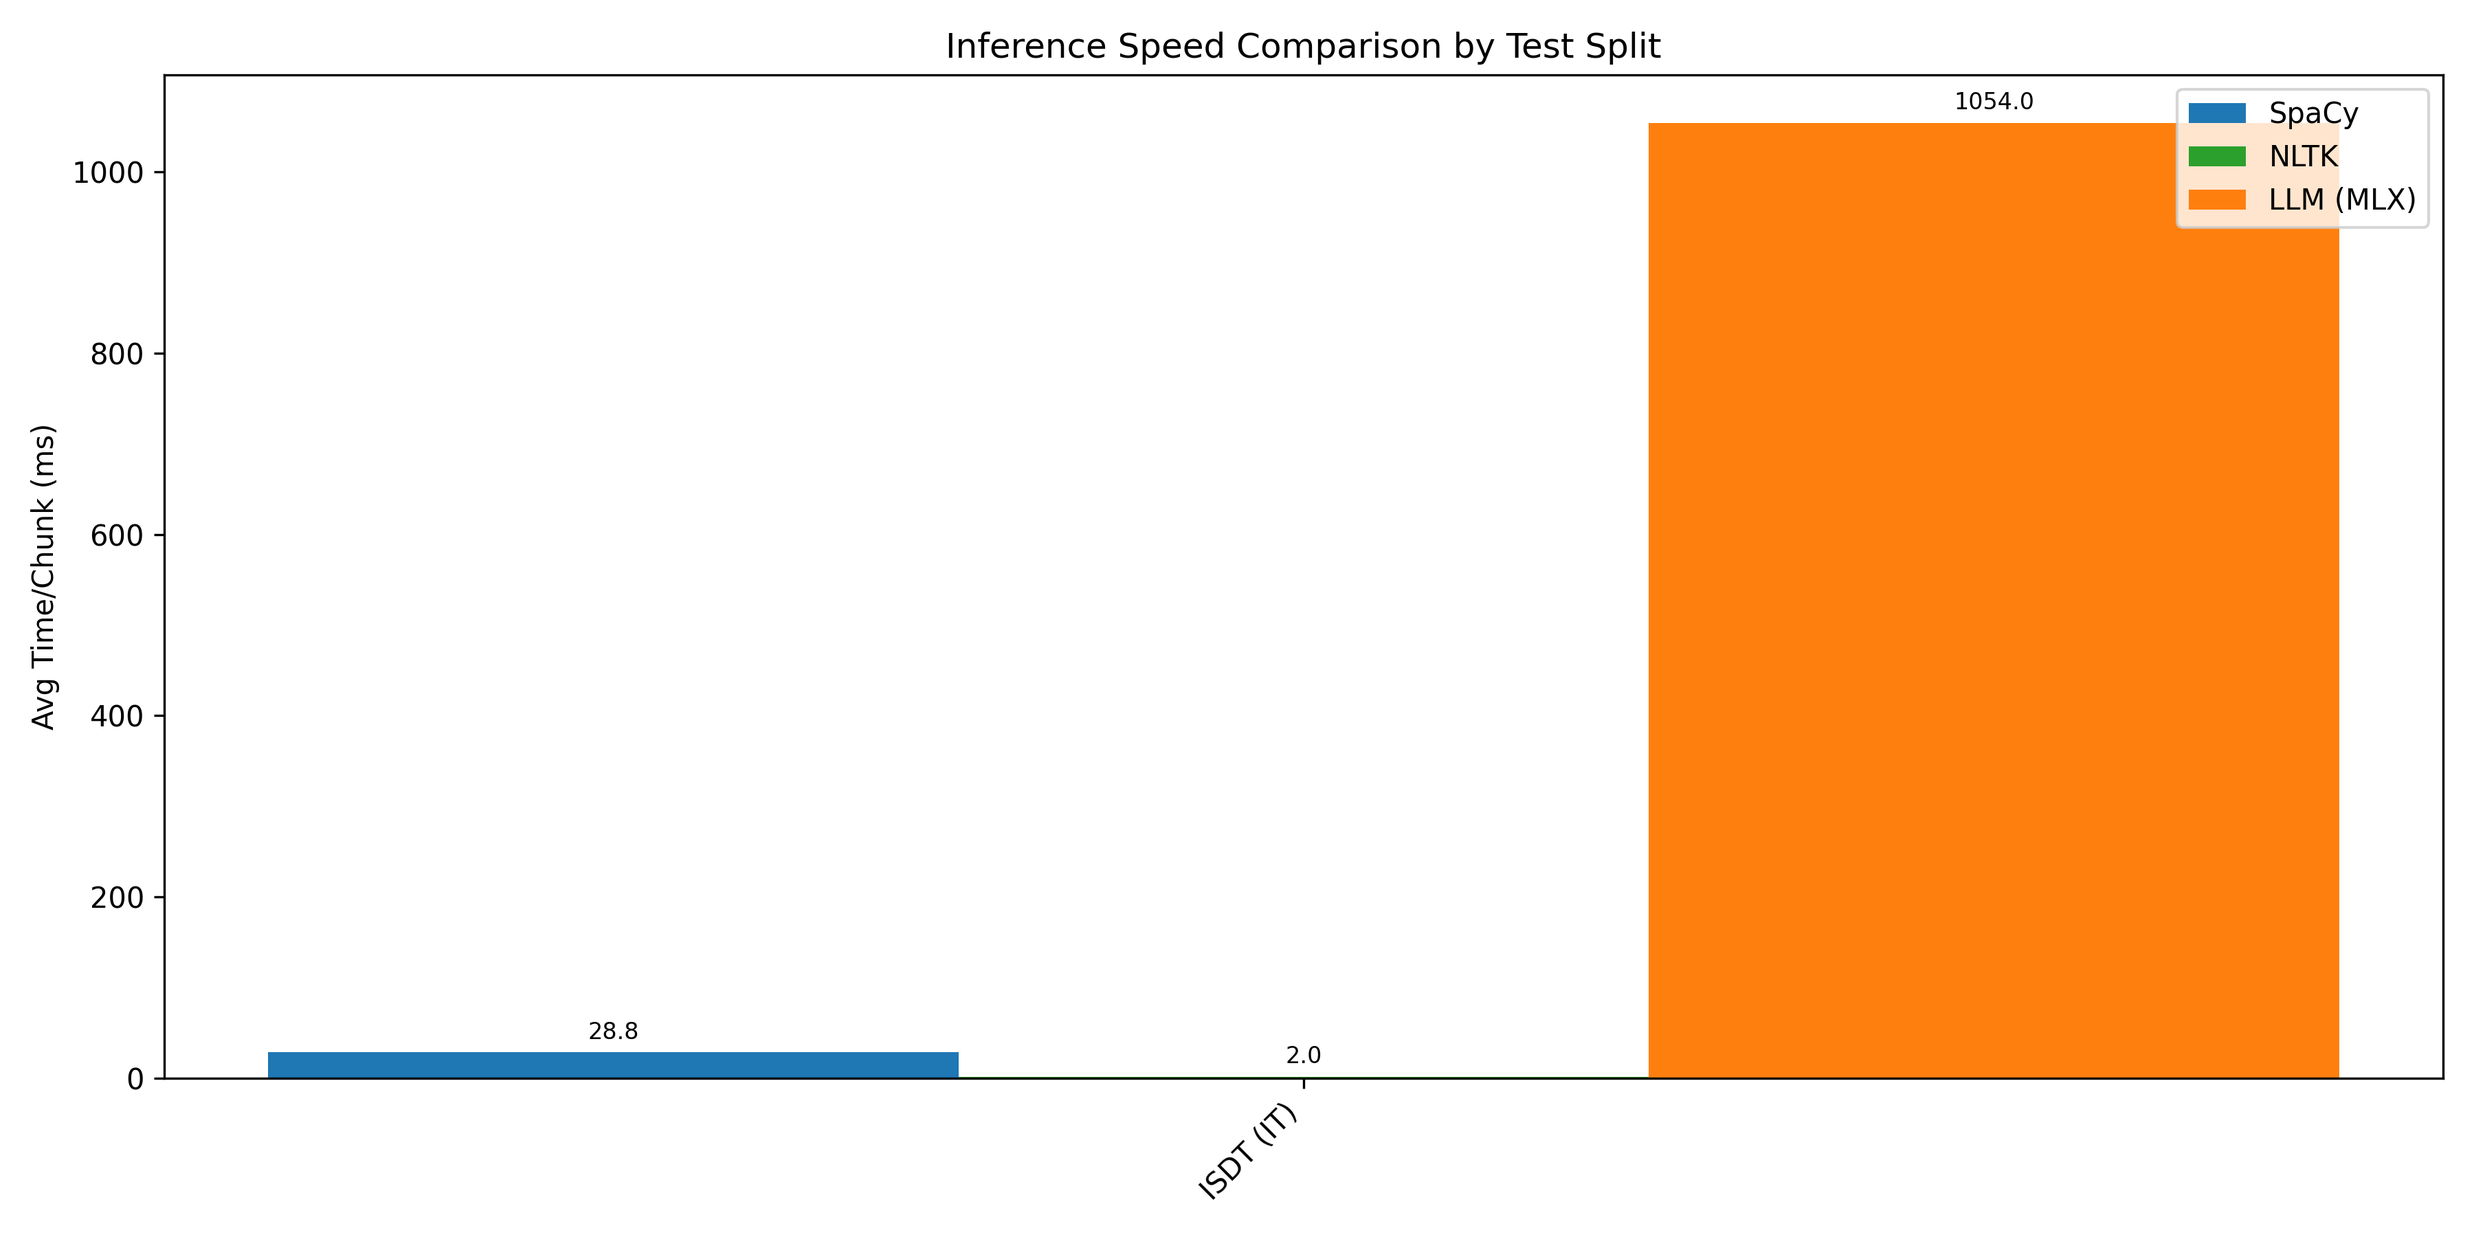
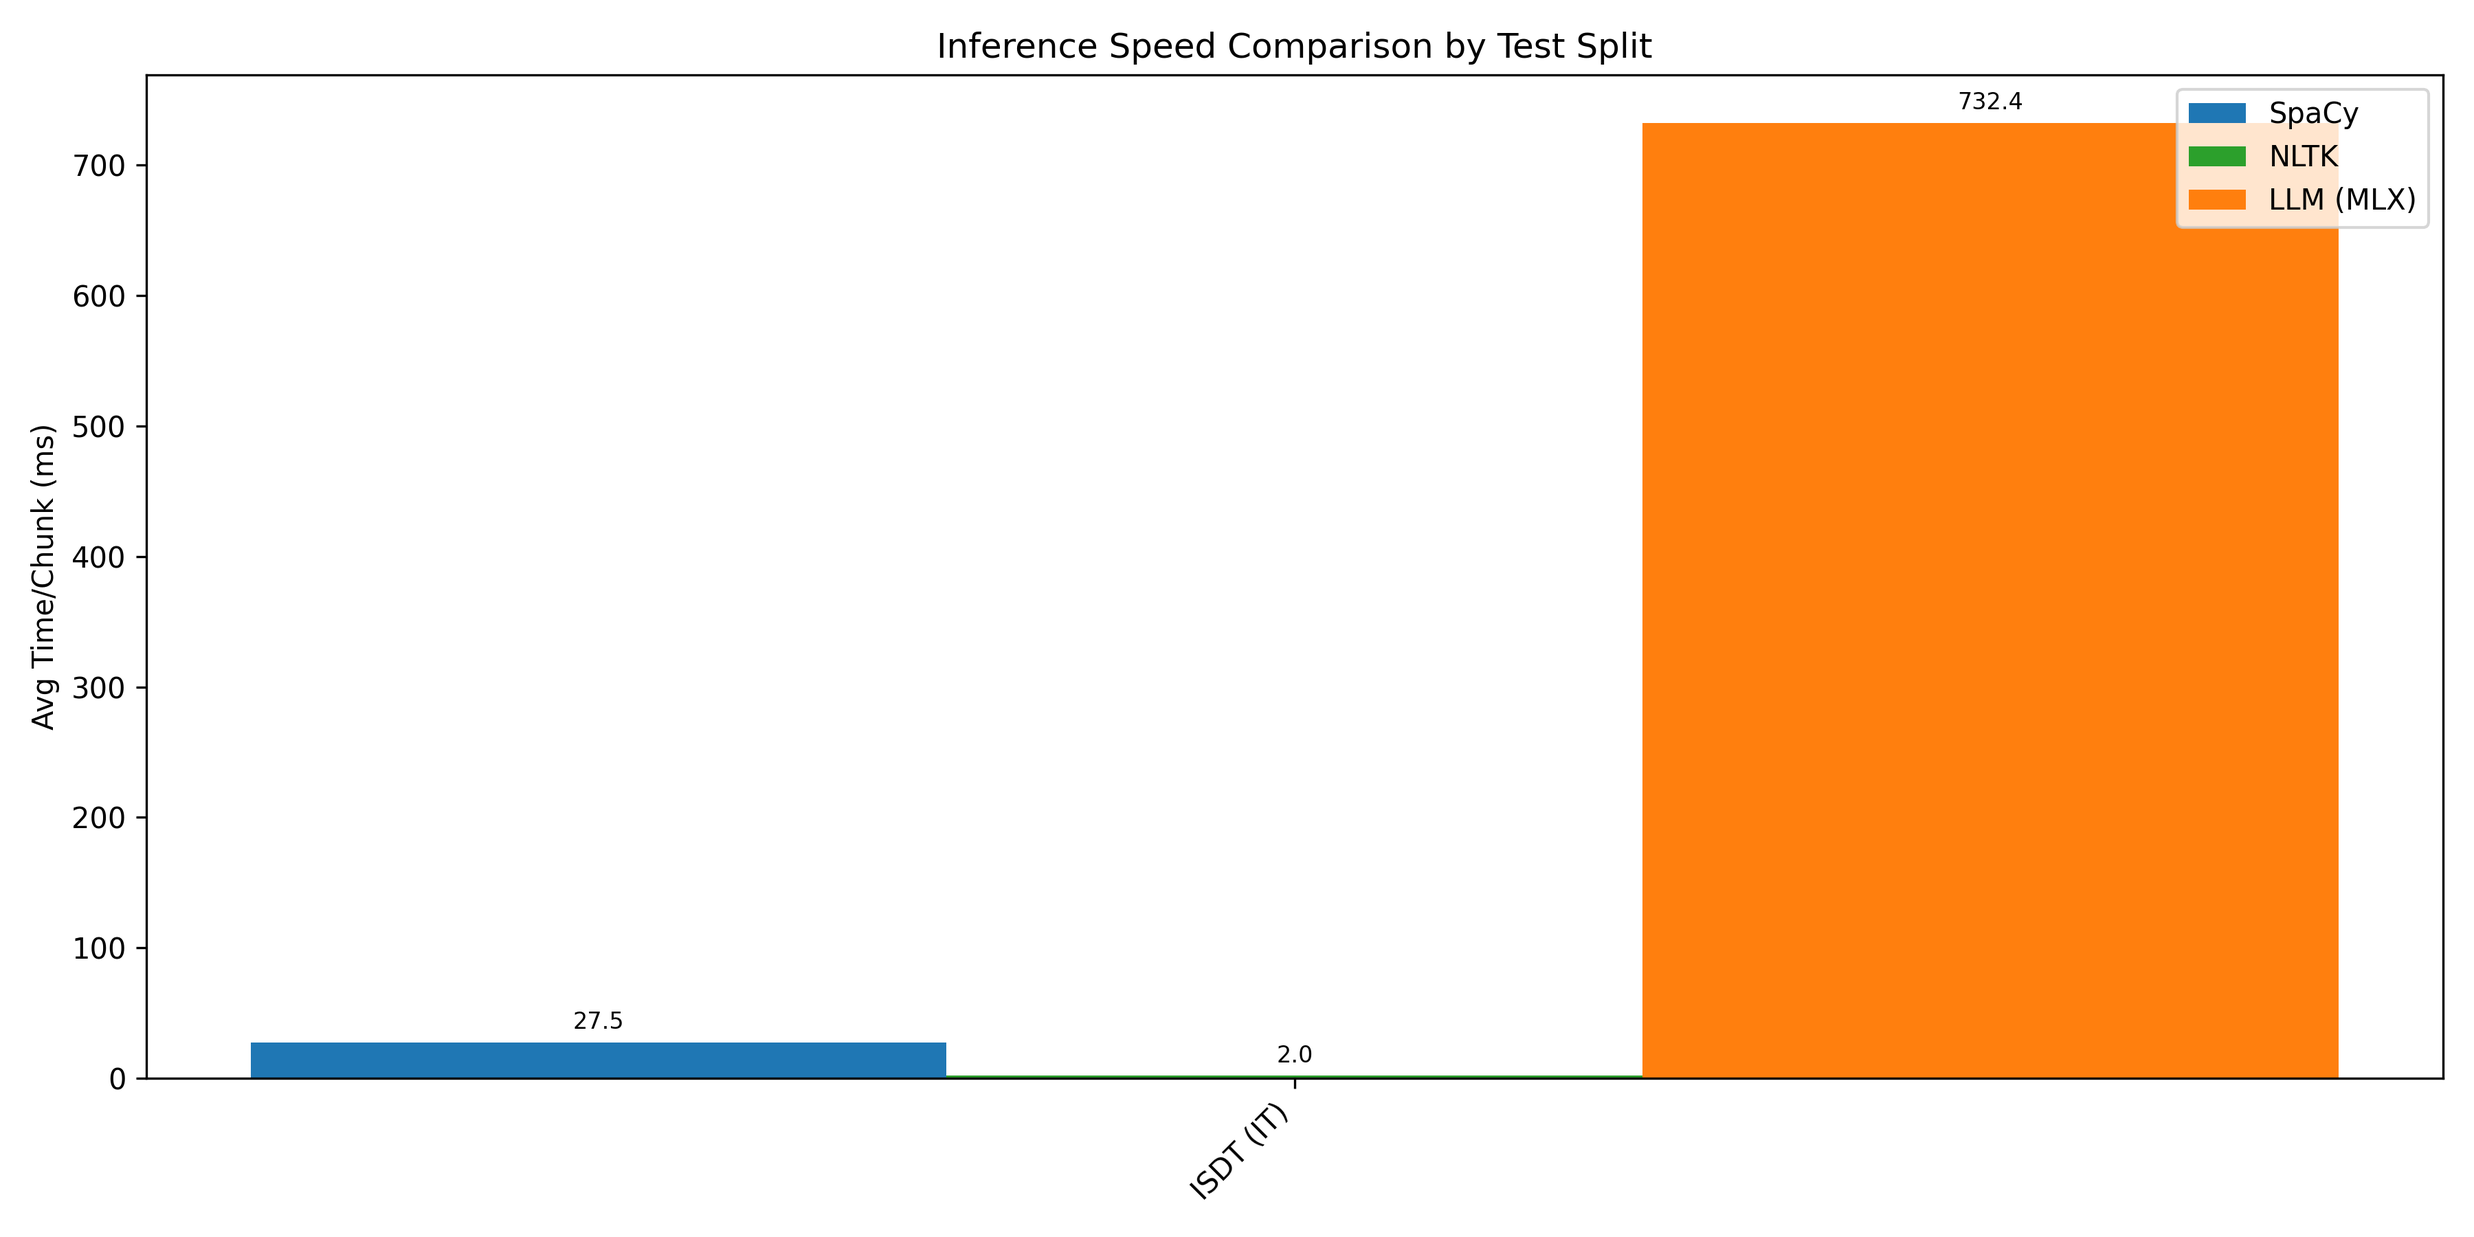
refactor: optimize inference performance with vectorized token-to-character projection and add MLP fine-tuning script

diff --git a/compare_spacy.py b/compare_spacy.py
@@ -73,7 +73,7 @@ def get_spacy_model(language):
         spacy.cli.download(model_name)
         return spacy.load(model_name)
 
-def evaluate_model(dataloader, llm_model, tokenizer, mlp, device, backend="mlx", threshold=0.5):
+def evaluate_model(dataloader, llm_model, tokenizer, mlp, device, backend="transformers", threshold=0.5):
     print(f"\n--- Running LLM Inference on {len(dataloader.dataset)} chunks ---")
     
     # Pre-determine total length to initialize buffers
@@ -81,15 +81,12 @@ def evaluate_model(dataloader, llm_model, tokenizer, mlp, device, backend="mlx",
     for sample in dataloader.dataset:
         total_text_len = max(total_text_len, sample["char_offset"] + len(sample["spaceless"]))
     
-    # Use NumPy arrays for massive memory efficiency over Python lists
     full_probs_max = np.zeros(total_text_len, dtype=np.float32)
     full_labels = np.zeros(total_text_len, dtype=np.int16)
     label_filled = np.zeros(total_text_len, dtype=bool)
     
     total_time = 0.0
-    time_llm = 0.0
-    time_sync = 0.0
-    time_post = 0.0
+    time_inference = 0.0
     num_processed = 0
     
     with torch.no_grad():
@@ -97,6 +94,9 @@ def evaluate_model(dataloader, llm_model, tokenizer, mlp, device, backend="mlx",
             input_ids = batch["input_ids"].to(device)
             attention_mask = batch["attention_mask"].to(device)
             token_mask = batch["token_mask"].to(device)
+            # Retrieve the mapping directly from the dataloader
+            char_to_token = batch["char_to_token"].to(device) 
+            
             labels = batch["char_labels"]
             mask = batch["char_mask"]
             offsets = batch["char_offset"]
@@ -104,70 +104,101 @@ def evaluate_model(dataloader, llm_model, tokenizer, mlp, device, backend="mlx",
             
             start_batch = time.time()
             
+            # 1. LLM Forward Pass
             tok_emb = extract_token_embeddings(llm_model, input_ids, attention_mask, backend=backend)
             tok_emb = tok_emb.float()
+            
+            # 2. MLP Prediction
             preds, _ = mlp(tok_emb, mask=token_mask)
             
-            end_llm = time.time()
-            time_llm += (end_llm - start_batch)
+            # 3. Vectorized Projection: Map tokens to characters instantly on GPU
+            char_probs = torch.gather(preds, dim=1, index=char_to_token)
             
-            # Explicitly delete to free memory earlier
-            del tok_emb
+            # Hardware synchronization to ensure accurate timing of GPU operations
+            if torch.cuda.is_available():
+                torch.cuda.synchronize()
+            elif hasattr(torch, "mps") and hasattr(torch.mps, "synchronize"):
+                torch.mps.synchronize()
+                
+            end_inference = time.time()
             
-            # Move to CPU ONCE to avoid O(BatchSize) sync overheads on MPS
-            preds_cpu = preds.cpu()
-            mask_cpu = mask.cpu()
-            labels_cpu = labels.cpu()
-            token_mask_cpu = token_mask.cpu()
+            # This is the exact total inference time for the batch (LLM + MLP + Projection)
+            time_inference += (end_inference - start_batch)
             
-            end_sync = time.time()
-            time_sync += (end_sync - end_llm)
+            # Free VRAM immediately
+            del tok_emb, preds
             
-            for b in range(preds.shape[0]):
-                offset = int(offsets[b])
-                valid_char_len = int(mask_cpu[b].sum().item())
-                l_list = labels_cpu[b][:valid_char_len].int().tolist()
-
+            # Move results to CPU only after all hardware computations are done
+            char_probs_cpu = char_probs.cpu().numpy()
+            mask_cpu = mask.numpy()
+            labels_cpu = labels.numpy()
+            offsets_cpu = offsets.numpy()
+            
+            for b in range(char_probs_cpu.shape[0]):
+                offset = int(offsets_cpu[b])
+                valid_char_len = int(mask_cpu[b].sum())
+                
+                # REFINEMENT: Map each token's probability to exactly ONE canonical character position
+                # to match label semantics. We prioritize space, then punctuation, then token-end.
+                c2t = batch["char_to_token"][b].cpu().numpy()[:valid_char_len]
                 local_text = texts[b]
-                valid_tok = token_mask_cpu[b].bool()
-                p_tok = preds_cpu[b][valid_tok].tolist()
-                tok_offsets = _valid_token_offsets(tokenizer, local_text)
-                valid_tok_len = min(len(p_tok), len(tok_offsets))
+                p_char_sparse = np.zeros(valid_char_len, dtype=np.float32)
 
-                # Project token probabilities to characters
-                p_char = [0.0] * valid_char_len
-                for j in range(valid_tok_len):
-                    local_start, local_end = tok_offsets[j]
-                    target_idx = _resolve_char_target_idx(local_text, local_start, local_end, valid_char_len)
-                    if target_idx is not None:
-                        p_char[target_idx] = max(p_char[target_idx], float(p_tok[j]))
+                if len(c2t) > 0:
+                    # Identify token boundaries efficiently
+                    token_ends = np.where(c2t[:-1] != c2t[1:])[0]
+                    token_ends = np.append(token_ends, len(c2t) - 1)
+                    
+                    # For each token, find the "best" character index in its span
+                    last_start = 0
+                    for end_idx in token_ends:
+                        token_id = c2t[end_idx]
+                        if token_id < 0:
+                            last_start = end_idx + 1
+                            continue
+                            
+                        # Default is token end
+                        best_idx = end_idx
+                        # Search for space or punctuation in span [last_start, end_idx]
+                        found_pref = False
+                        for idx in range(last_start, end_idx + 1):
+                            if idx < len(local_text):
+                                char = local_text[idx]
+                                if char.isspace():
+                                    best_idx = idx
+                                    found_pref = True
+                                    break
+                                elif not found_pref and char in PUNCT_CHARS:
+                                    best_idx = idx
+                                    # keep searching for a space
+                        
+                        p_char_sparse[best_idx] = char_probs_cpu[b, end_idx]
+                        last_start = end_idx + 1
 
-                # Vectorize the NumPy array updates to fix the O(N) scalar slowdown
                 end_idx = min(offset + valid_char_len, total_text_len)
                 actual_len = end_idx - offset
                 
                 if actual_len > 0:
-                    p_char_arr = np.array(p_char[:actual_len], dtype=np.float32)
+                    # Fast NumPy array updates
                     full_probs_max[offset:end_idx] = np.maximum(
-                        full_probs_max[offset:end_idx], p_char_arr
+                        full_probs_max[offset:end_idx], 
+                        p_char_sparse[:actual_len]
                     )
                     
                     slice_filled = label_filled[offset:end_idx]
                     unfilled_mask = ~slice_filled
                     
                     if np.any(unfilled_mask):
-                        l_arr = np.array(l_list[:actual_len], dtype=np.int16)
+                        l_arr = labels_cpu[b][:actual_len].astype(np.int16)
                         full_labels[offset:end_idx][unfilled_mask] = l_arr[unfilled_mask]
                         label_filled[offset:end_idx] = True
                 
                 num_processed += 1
             
-            end_post = time.time()
-            time_post += (end_post - end_sync)
-            total_time += (end_post - start_batch)
+            total_time += (time.time() - start_batch)
                 
             if (i + 1) % 10 == 0:
-                print(f" LLM: Batch {i+1}/{len(dataloader)} processed | LLM: {time_llm:.2f}s | Sync: {time_sync:.2f}s | Post: {time_post:.2f}s")
+                print(f" LLM: Batch {i+1}/{len(dataloader)} | Pure Inference Time: {time_inference:.2f}s | Total Batch Time: {total_time:.2f}s")
 
     # Max pooling across overlapping windows preserves sparse boundary peaks.
     final_preds = []
@@ -188,9 +219,12 @@ def evaluate_model(dataloader, llm_model, tokenizer, mlp, device, backend="mlx",
         "precision": precision,
         "recall": recall,
         "f1": f1,
+        "full_probs": full_probs_max,
+        "full_labels": full_labels,
         "total_time": total_time,
         "num_processed": num_processed
     }
+
 
 def evaluate_spacy(dataloader, nlp_model):
     print(f"\n--- Running SpaCy Inference on {len(dataloader.dataset)} chunks ---")

diff --git a/finetune_sentence.py b/finetune_sentence.py
@@ -1,0 +1,175 @@
+import argparse
+import torch
+import time
+from pathlib import Path
+from torch.utils.data import DataLoader, ConcatDataset
+from tqdm import tqdm
+
+# Import useful functions and constants from the existing training script
+from train_sentence import (
+    CachedEmbeddingDataset, 
+    cached_collate_fn, 
+    evaluate, 
+    _seed_worker, 
+    set_deterministic_seed,
+    SENTENCE_CACHE_DIR,
+    CHECKPOINT_DIR
+)
+from model import SpacePredictorMLP, FocalLoss
+from sentence_embeddings import get_device
+
+def finetune_mlp(
+    train_splits: list[str],
+    dev_splits: list[str],
+    base_ckpt_path: Path,
+    output_ckpt_name: str = "finetuned_sentence_mlp.pt",
+    epochs: int = 5,
+    batch_size: int = 32,
+    lr: float = 5e-5,  # Very low learning rate for fine-tuning
+    pos_weight: float = 10.0,
+    aux_weight: float = 0.01,
+    patience: int = 3,
+    seed: int = 42
+):
+    set_deterministic_seed(seed)
+    device = get_device()
+    
+    output_ckpt_path = CHECKPOINT_DIR / output_ckpt_name
+    
+    print(f"Loading base checkpoint from: {base_ckpt_path}")
+    if not base_ckpt_path.exists():
+        raise FileNotFoundError(f"Checkpoint not found: {base_ckpt_path}")
+        
+    checkpoint = torch.load(base_ckpt_path, map_location=device, weights_only=True)
+    
+    # 1. Reconstruct the model with original parameters from the checkpoint
+    hidden_dim = checkpoint.get("hidden_dim", 2048)
+    d_model = checkpoint.get("cnn_dim", checkpoint.get("d_model", 256))
+    num_experts = checkpoint.get("num_experts", 8)
+    top_k = checkpoint.get("top_k", 2)
+    
+    mlp = SpacePredictorMLP(
+        hidden_dim=hidden_dim,
+        d_model=d_model,
+        dropout=0.3, # Keep robust dropout to prevent overfitting on specific datasets
+        num_experts=num_experts,
+        top_k=top_k,
+    ).to(device)
+    
+    mlp.load_state_dict(checkpoint["model_state_dict"])
+    print("✓ Base model loaded successfully.")
+
+    # 2. Load "hard" datasets using cached embeddings
+    print(f"\nLoading Fine-Tuning data... Train: {train_splits}, Dev: {dev_splits}")
+    try:
+        train_ds = ConcatDataset([CachedEmbeddingDataset(SENTENCE_CACHE_DIR / s) for s in train_splits])
+        dev_ds = ConcatDataset([CachedEmbeddingDataset(SENTENCE_CACHE_DIR / s) for s in dev_splits])
+    except FileNotFoundError as e:
+        print(f"\nERROR: {e}")
+        print("Ensure you have extracted embeddings for these splits using 'pdm run python main_sentence.py train --phase extract'!")
+        return
+
+    train_loader = DataLoader(
+        train_ds, batch_size=batch_size, shuffle=True,
+        collate_fn=cached_collate_fn, num_workers=0, worker_init_fn=_seed_worker # num_workers=0 safe for Mac
+    )
+    dev_loader = DataLoader(
+        dev_ds, batch_size=batch_size, shuffle=False,
+        collate_fn=cached_collate_fn, num_workers=0, worker_init_fn=_seed_worker
+    )
+
+    print(f"Train samples: {len(train_ds)} | Dev samples: {len(dev_ds)}")
+
+    # 3. Setup Loss and Optimizer (Reduced LR)
+    criterion = FocalLoss(alpha=pos_weight, gamma=2.0, reduction="none")
+    optimizer = torch.optim.Adam(mlp.parameters(), lr=lr, weight_decay=1e-5) # Light weight decay
+    
+    best_f1 = 0.0
+    patience_counter = 0
+
+    print("\nStarting Fine-Tuning...")
+    for epoch in range(1, epochs + 1):
+        mlp.train()
+        total_loss = 0.0
+        num_batches = 0
+
+        pbar = tqdm(train_loader, desc=f"Epoch {epoch}/{epochs}", leave=False)
+        for batch in pbar:
+            emb = batch["token_embeddings"].to(device).float()
+            labels = batch["token_labels"].to(device)
+            mask = batch["token_mask"].to(device)
+
+            preds, moe_aux_loss = mlp(emb, mask=mask)
+
+            loss_all = criterion(preds, labels)
+            bce_loss = (loss_all * mask.float()).sum() / max(mask.float().sum(), 1.0)
+            loss_total = bce_loss + aux_weight * moe_aux_loss
+
+            optimizer.zero_grad()
+            loss_total.backward()
+            torch.nn.utils.clip_grad_norm_(mlp.parameters(), max_norm=1.0)
+            optimizer.step()
+
+            total_loss += loss_total.item()
+            num_batches += 1
+            pbar.set_postfix({"loss": f"{loss_total.item():.4f}"})
+
+        avg_loss = total_loss / max(num_batches, 1)
+        
+        # 4. Evaluation on "hard" Dev set
+        metrics = evaluate(mlp, dev_loader, device)
+
+        print(
+            f"Epoch {epoch:2d}/{epochs} │ Loss: {avg_loss:.4f} │ "
+            f"Acc: {metrics['accuracy']:.4f} │ P: {metrics['precision']:.4f} │ "
+            f"R: {metrics['recall']:.4f} │ F1: {metrics['f1']:.4f}"
+        )
+
+        # 5. Save the new checkpoint
+        if metrics["f1"] > best_f1:
+            best_f1 = metrics["f1"]
+            patience_counter = 0
+            
+            # Match the original checkpoint save structure
+            checkpoint_data = {
+                "model_state_dict": mlp.state_dict(),
+                "hidden_dim": hidden_dim,
+                "d_model": d_model,
+                "cnn_dim": d_model,
+                "dropout": mlp.drop.p,
+                "num_experts": num_experts,
+                "top_k": top_k,
+                "f1": best_f1,
+            }
+            torch.save(checkpoint_data, output_ckpt_path)
+            print(f"  → Saved new fine-tuned model to {output_ckpt_path.name} (F1={best_f1:.4f})")
+        else:
+            patience_counter += 1
+            if patience_counter >= patience:
+                print(f"\n⏹ Early stopping at epoch {epoch}")
+                break
+
+    print(f"\n✓ Fine-Tuning complete. Best target F1: {best_f1:.4f}")
+
+
+if __name__ == "__main__":
+    parser = argparse.ArgumentParser(description="Fine-tune the Sentence MLP on hard datasets")
+    parser.add_argument("--train-splits", type=str, required=True, help="Comma-separated train splits (e.g. it-vit-train,it-partut-train)")
+    parser.add_argument("--dev-splits", type=str, required=True, help="Comma-separated dev splits (e.g. it-vit-dev,it-partut-dev)")
+    parser.add_argument("--lr", type=float, default=5e-5, help="Learning rate for fine-tuning")
+    parser.add_argument("--epochs", type=int, default=5, help="Max epochs")
+    
+    args = parser.parse_args()
+    
+    base_ckpt = CHECKPOINT_DIR / "best_sentence_mlp.pt"
+    
+    train_list = [s.strip() for s in args.train_splits.split(",")]
+    dev_list = [s.strip() for s in args.dev_splits.split(",")]
+    
+    finetune_mlp(
+        train_splits=train_list,
+        dev_splits=dev_list,
+        base_ckpt_path=base_ckpt,
+        lr=args.lr,
+        epochs=args.epochs
+    )
